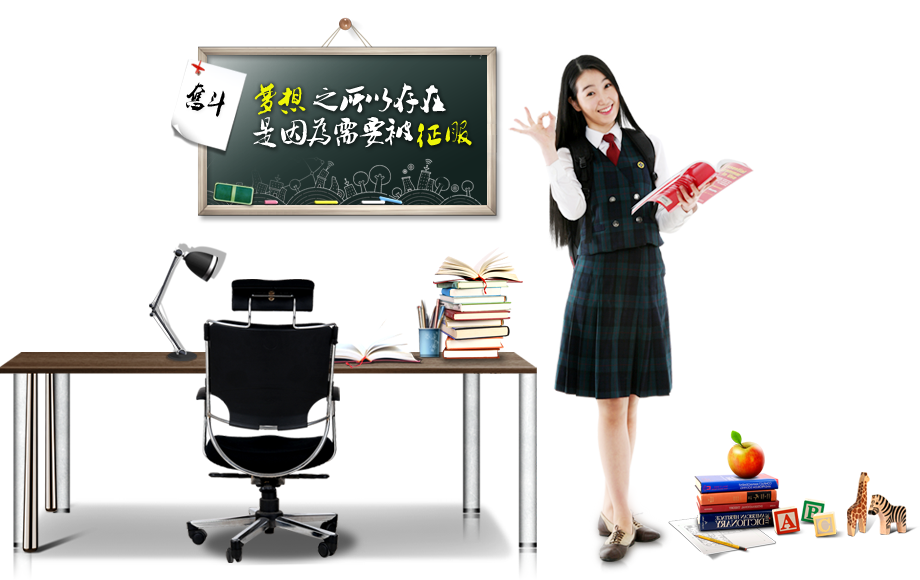
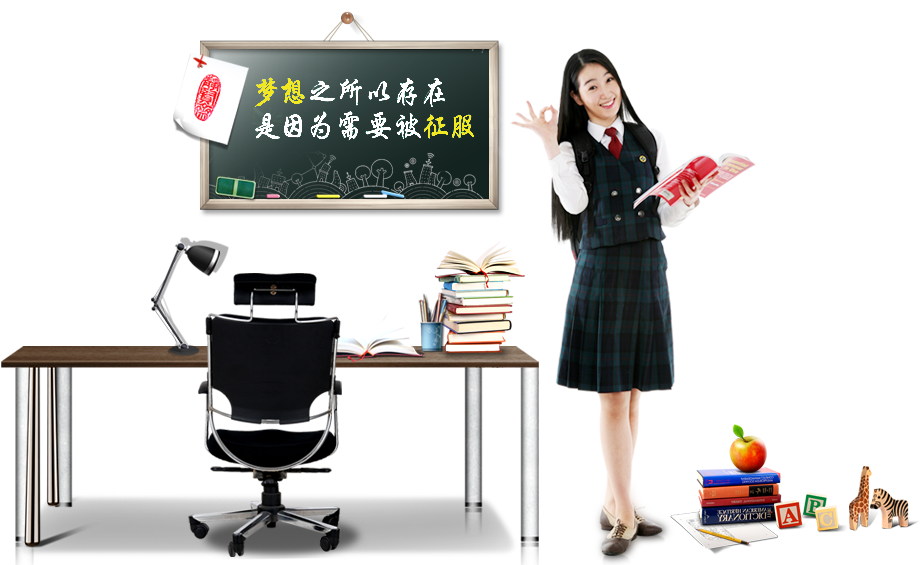
0.0.0.13

diff --git a/website_tpl_leon/static/src/less/custom.css b/website_tpl_leon/static/src/less/custom.css
@@ -99,14 +99,6 @@ footer #footer {
 footer .text-muted {
   color: #666666;
 }
-.zwjthpbgimg {
-  transition: none;
-  transform: translateX(-18.9%) translateY(34.5%) scaleX(1.65) scaleY(1.65);
-  animation-play-state: paused;
-  -webkit-transform: translateX(-18.9%) translateY(34.5%) scaleX(1.65) scaleY(1.65);
-  -moz-transform: translateX(-18.9%) translateY(34.5%) scaleX(1.65) scaleY(1.65);
-  -o-transform: translateX(-18.9%) translateY(34.5%) scaleX(1.65) scaleY(1.65);
-}
 #em-r2 .panel {
   background-color: transparent;
   border: 0px solid transparent;

diff --git a/website_tpl_leon/static/src/less/custom.less b/website_tpl_leon/static/src/less/custom.less
@@ -93,15 +93,6 @@ footer {
 }
 
 // homepage em
-.zwjthpbgimg {
-  transition:none;
-  transform: translateX(-18.9%) translateY(34.5%) scaleX(1.65) scaleY(1.65);
-  animation-play-state: paused;
-  -webkit-transform: translateX(-18.9%) translateY(34.5%) scaleX(1.65) scaleY(1.65);
-  -moz-transform: translateX(-18.9%) translateY(34.5%) scaleX(1.65) scaleY(1.65);
-  -o-transform: translateX(-18.9%) translateY(34.5%) scaleX(1.65) scaleY(1.65);
-}
-
 #em-r2 {
   .panel {
     background-color: transparent;
